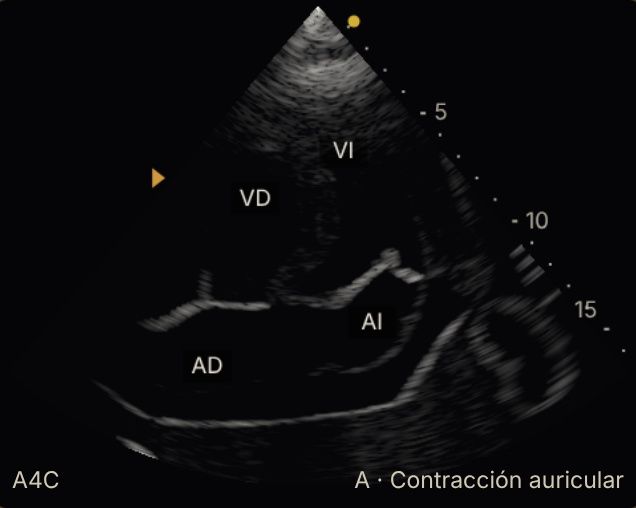
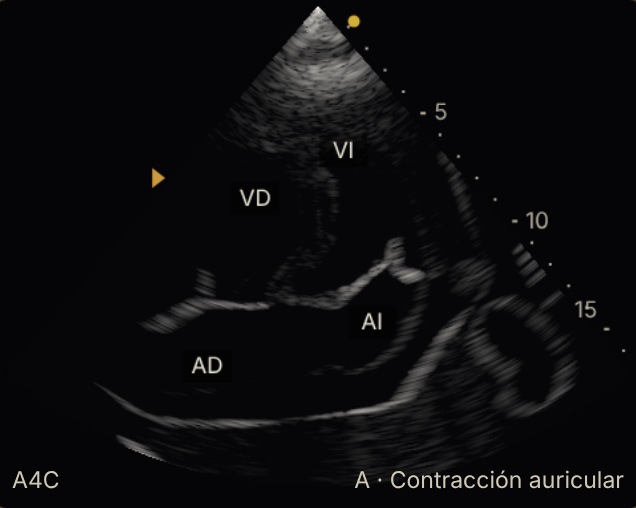
mv-eco-2a5 vuelta 5: D del VI suave (uniones del endocardio, papilares abiertos hacia la pared libre) y diagnóstico de la pared libre del VD en el A4C
Claude-Session: https://claude.ai/code/session_01QiKC3AcfFSk1UttXhkeNUc

diff --git a/autonomo/bloques/mv-eco/capturas-realismo/cifras.md b/autonomo/bloques/mv-eco/capturas-realismo/cifras.md
@@ -12,30 +12,6 @@
 - motor: FC 69 · PAM 86 · PA 105/undefined · GC 5.07 · PVC 4.3
 - pantalla: mezcla
 
-## normal-psax (normal, psaxPm, dibujo 2)
-- fase: A · Contracción auricular
-- titulo: PSAX papilares
-- grav: 
-- Último latido: PA 105/66 (PAM 86) · FC 69 · GC 5.1 L/min · PVC 4
-- VI: 119 mL · 10 mmHg
-- VD: 138 mL · 6 mmHg
-- Aorta: 71 mmHg · AP 13
-- Aurículas: AI 25 · AD 18 mL
-- motor: FC 69 · PAM 86 · PA 105/undefined · GC 5.07 · PVC 4.3
-- pantalla: mezcla
-
-## normal-plax (normal, plax, dibujo 2)
-- fase: A · Contracción auricular
-- titulo: PLAX
-- grav: 
-- Último latido: PA 105/67 (PAM 86) · FC 69 · GC 5.0 L/min · PVC 4
-- VI: 119 mL · 10 mmHg
-- VD: 138 mL · 6 mmHg
-- Aorta: 72 mmHg · AP 13
-- Aurículas: AI 25 · AD 18 mL
-- motor: FC 69 · PAM 86 · PA 105/undefined · GC 5.03 · PVC 4.3
-- pantalla: mezcla
-
 ## hp-a4c (hpcronica, g=1, a4c, dibujo 2)
 - fase: A · Contracción auricular
 - titulo: A4C
@@ -82,54 +58,6 @@
 - Aorta: 57 mmHg · AP 23
 - Aurículas: AI 30 · AD 32 mL
 - motor: FC 119 · PAM 59 · PA 65/undefined · GC 2.34 · PVC 9.4
-- pantalla: mezcla
-
-## dilatada-a4c (dilatada, g=1, a4c, dibujo 2)
-- fase: A · Contracción auricular
-- titulo: A4C
-- grav: 
-- Último latido: PA 92/68 (PAM 80) · FC 85 · GC 3.7 L/min · PVC 9
-- VI: 210 mL · 30 mmHg
-- VD: 155 mL · 14 mmHg
-- Aorta: 73 mmHg · AP 31
-- Aurículas: AI 71 · AD 22 mL
-- motor: FC 85 · PAM 80 · PA 92/undefined · GC 3.75 · PVC 9.3
-- pantalla: mezcla
-
-## derrame-sc4c (derrame, g=1, sc4c, dibujo 2)
-- fase: A · Contracción auricular
-- titulo: SC 4C
-- grav: 377 mL de derrame. Ilustrativo: 0 % es el corazón normal y 100 %, el taponamiento a fondo.
-- Último latido: PA 66/54 (PAM 60) · FC 118 · GC 2.4 L/min · PVC 10
-- VI: 27 mL · 10 mmHg
-- VD: 45 mL · 9 mmHg
-- Aorta: 58 mmHg · AP 14
-- Aurículas: AI 30 · AD 18 mL
-- motor: FC 118 · PAM 60 · PA 66/undefined · GC 2.36 · PVC 10
-- pantalla: mezcla
-
-## hipertrofia-plax (hipertrofia, g=1, plax, dibujo 2)
-- fase: A · Contracción auricular
-- titulo: PLAX
-- grav: rigidez ×2,2, volumen retenido 300 mL. Ilustrativo: 0 % es el corazón normal y 100 %, el grado 2 (seudonormal).
-- Último latido: PA 97/71 (PAM 84) · FC 76 · GC 3.6 L/min · PVC 6
-- VI: 88 mL · 32 mmHg
-- VD: 162 mL · 10 mmHg
-- Aorta: 75 mmHg · AP 29
-- Aurículas: AI 50 · AD 23 mL
-- motor: FC 76 · PAM 84 · PA 97/undefined · GC 3.63 · PVC 6.5
-- pantalla: mezcla
-
-## hp-a4c-dibujo-hoy (hpcronica, g=1, a4c, dibujo 1)
-- fase: A · Contracción auricular
-- titulo: A4C
-- grav: resistencia pulmonar ×12,0, pared del VD ×2,4. Ilustrativo: 0 % es el corazón normal y 100 %, el VD que claudica.
-- Último latido: PA 85/67 (PAM 76) · FC 94 · GC 3.0 L/min · PVC 15
-- VI: 60 mL · 9 mmHg
-- VD: 228 mL · 20 mmHg
-- Aorta: 70 mmHg · AP 46
-- Aurículas: AI 23 · AD 42 mL
-- motor: FC 94 · PAM 76 · PA 85/undefined · GC 3.02 · PVC 15.5
 - pantalla: mezcla
 
 ## Errores de consola
